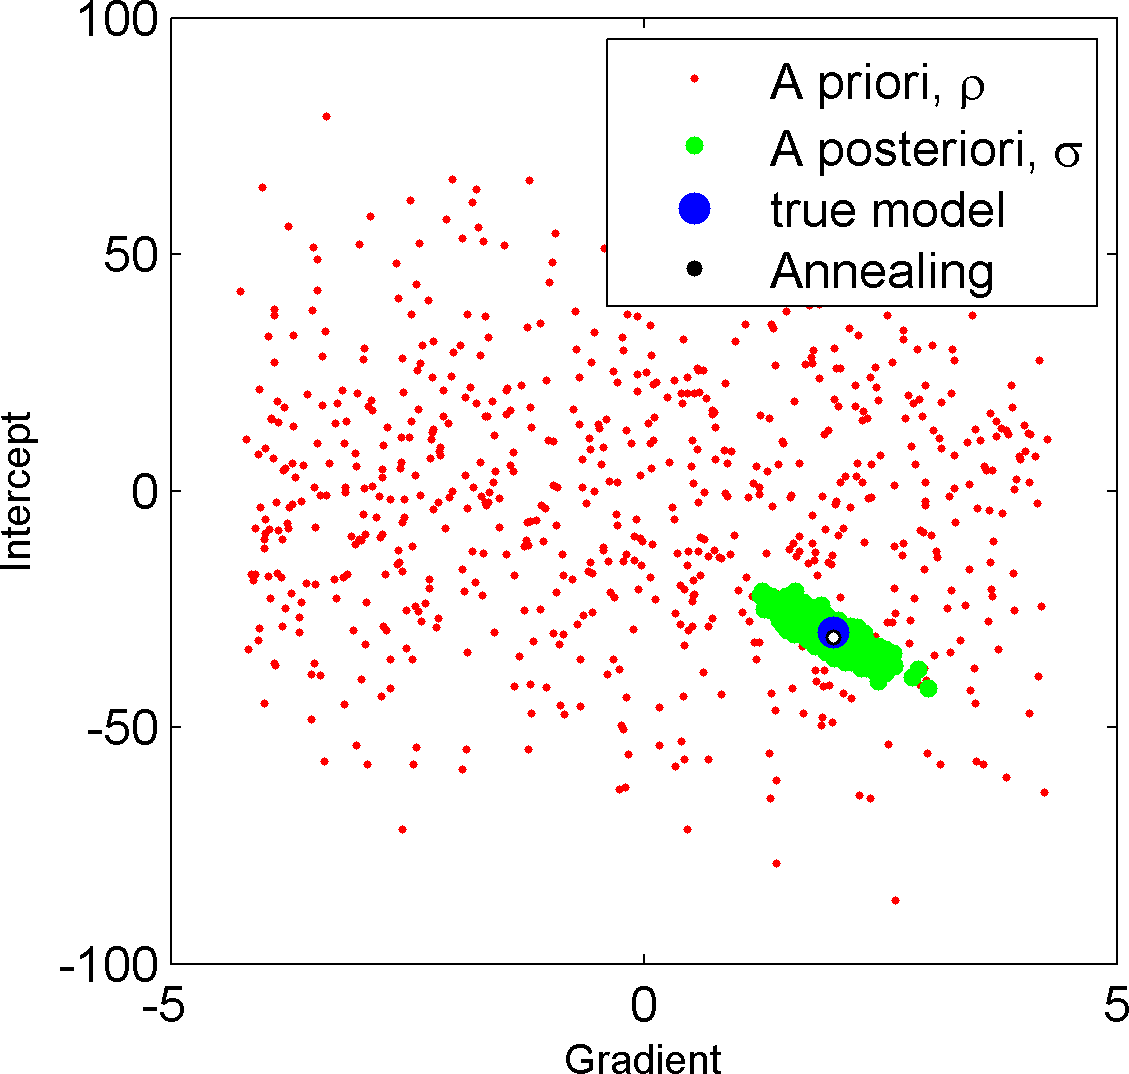
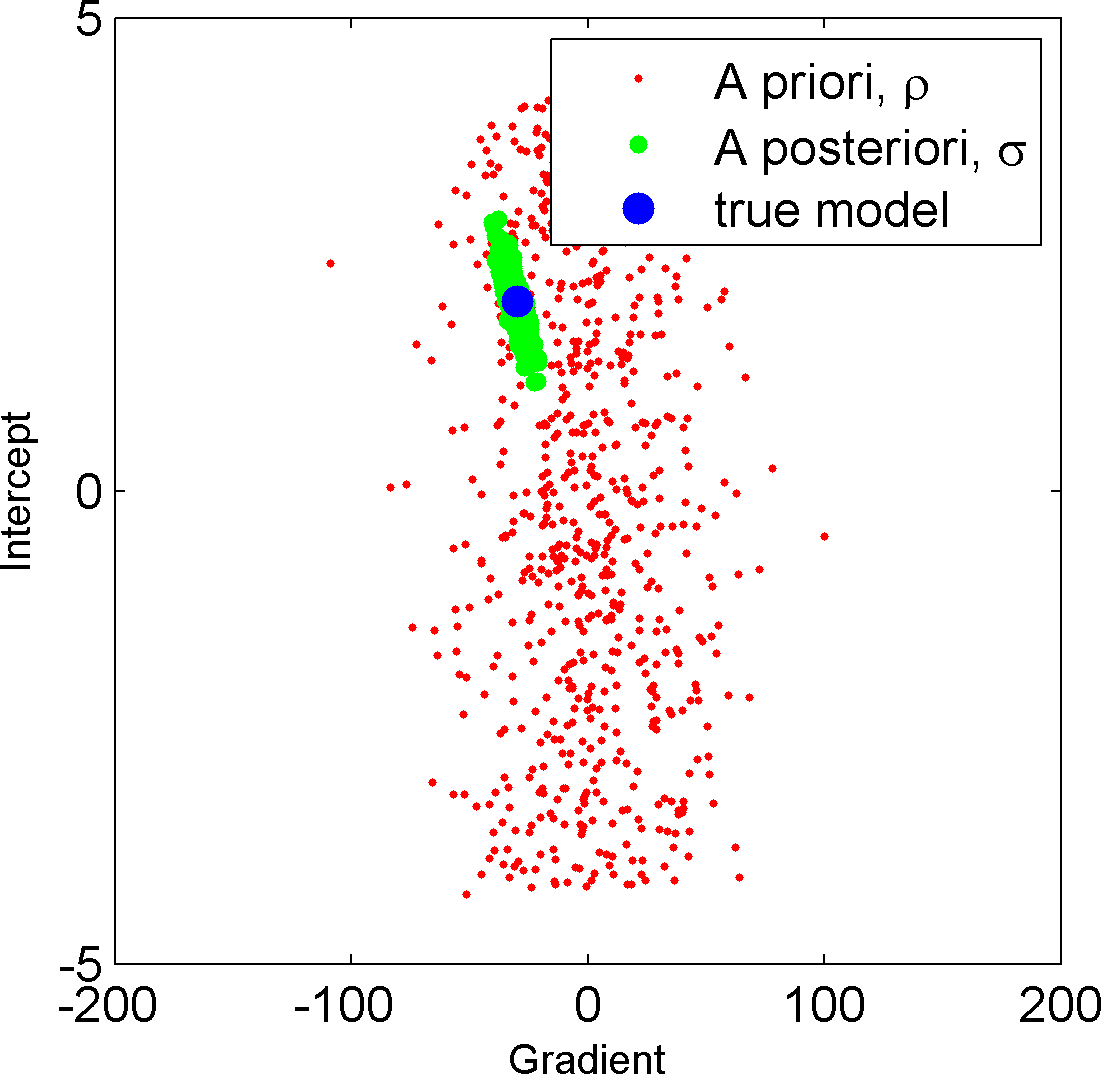
Cleaning up sippi_line_fit.m

diff --git a/trunk/examples/case_line_fit/sippi_line_fit.m b/trunk/examples/case_line_fit/sippi_line_fit.m
@@ -1,11 +1,20 @@
-% Fiting line using SIPPI
+% sippi_linefit: Fiting straight line using SIPPI
 clear all;close all
 rand('seed',1);randn('seed',1);
 
 %% Setting up the prior model
 
-% the gradient
+
+% the intercept
 im=1;
+prior{im}.type='gaussian';
+prior{im}.name='intercept';
+prior{im}.m0=0;
+prior{im}.std=30;
+prior{im}.m_true=-30;
+
+% 1st order, the gradient
+im=2;
 prior{im}.type='gaussian';
 prior{im}.name='gradient';
 prior{im}.m0=0;
@@ -13,25 +22,15 @@ prior{im}.std=4;
 prior{im}.norm=80;
 prior{im}.m_true=2;
 
-% the intercept
-im=im+1;
-prior{im}.type='gaussian';
-prior{im}.name='intercept';
-prior{im}.m0=0;
-prior{im}.std=30;
-prior{im}.m_true=-30;
-
-prior=sippi_prior_init(prior);
-
 %% Setup the forward model in the 'forward' structure
 nd=40;
 forward.x=linspace(1,20,nd)';
 forward.forward_function='sippi_forward_linefit';
 
 %% Set up the 'data' structure
-id=1;
-m_true{1}=prior{1}.m_true;
-m_true{2}=prior{2}.m_true;
+for ip=1:length(prior);
+    m_true{ip}=prior{ip}.m_true;
+end
 d=sippi_forward_linefit(m_true,forward);
 d_obs=d{1};
 % Add noise top data
@@ -45,11 +44,10 @@ options.mcmc.i_sample=50;
 options.mcmc.i_plot=2500;
 options.txt='case_line_fit';
 
-options_anneal=options;
 [options]=sippi_metropolis(data,prior,forward,options);
 sippi_plot_prior_sample(options.txt);
 sippi_plot_posterior(options.txt);
-return
+
 %% plot some stats
 % get sample from posterior
 m1_post=load(sprintf('%s%s%s_m1.asc',options.txt,filesep,options.txt))';
@@ -59,7 +57,7 @@ m2_post=m2_post(100:end);
 % get sample prior
 N=length(m1_post);
 for i=1:1:N
-    m=sippi_prior(prior);
+    [m,prior]=sippi_prior(prior);
     m1_prior(i)=m{1};
     m2_prior(i)=m{2};
 end  
@@ -76,36 +74,31 @@ ppp(8,8,12)
 axis(ax);print_mul('sippi_line_fit_data')
 
 for i=ceil(linspace(1,N,100))
-    plot(x1,m1_prior(i).*x1+m2_prior(i),'r-','linewidth',.8);
+    plot(x1,m2_prior(i).*x1+m1_prior(i),'r-','linewidth',.8);
 end
 errorbar(forward.x,data{1}.d_obs,ones(size(forward.x)).*data{1}.d_std,'k.','linewidth',2)
 axis(ax);print_mul('sippi_line_fit_data_prior')
 
 for i=ceil(linspace(1,N,100))
-    plot(x1,m1_post(i).*x1+m2_post(i),'g-','linewidth',.8);
+    plot(x1,m2_post(i).*x1+m1_post(i),'g-','linewidth',.8);
 end
 errorbar(forward.x,data{1}.d_obs,ones(size(forward.x)).*data{1}.d_std,'k.','linewidth',2)
 hold off
 print_mul('sippi_line_fit')
 
+return
 %%
 try;close(2);end;figure(2);clf;set_paper('portrait');
 plot(m1_prior,m2_prior,'r.','MarkerSize',6)
 hold on
 plot(m1_post,m2_post,'g.','MarkerSize',14)
 plot(prior{1}.m_true,prior{2}.m_true,'b.','MarkerSize',24);
-try
-    plot(options_anneal.mcmc.m_current{1},options_anneal.mcmc.m_current{2},'k.','MarkerSize',12)
-    plot(options_anneal.mcmc.m_current{1},options_anneal.mcmc.m_current{2},'w.','MarkerSize',8)
-end
 hold off
 xlabel('Gradient')
 ylabel('Intercept')
-legend('A priori, \rho','A posteriori, \sigma','true model','Annealing')
+legend('A priori, \rho','A posteriori, \sigma','true model')
 ppp(8,8,12)
 print_mul('sippi_line_fit_cross')
-
-
 
 %%
 for i=1:length(m1_post);
@@ -161,20 +154,4 @@ xlabel('log(Likelihood)')
 ylabel('Count (#)')
 set(gca,'xlim',[hx(1) hx(length(hx))])
 print_mul('sippi_line_fit_cross_metro_rejection')
-
-%% ANNEALING
-options_anneal.txt='case_line_fit_anneal';
-options_anneal.mcmc.nite=2000;
-options_anneal.mcmc.anneal.i_begin=1; % default, iteration number when annealing begins
-options_anneal.mcmc.anneal.i_end=options.mcmc.nite; %  iteration number when annealing begins
-options_anneal.mcmc.anneal.fac_begin=1; % default, noise is scaled by fac_begin at iteration i_begin
-options_anneal.mcmc.anneal.fac_end=.00001; % default, noise is scaled by fac_end at iteration i_end
- 
- 
-[options_anneal]=sippi_metropolis(data,prior,forward,options_anneal);
-
-for i=1:length(prior);
-disp(sprintf('%s ref=%g, optimal=%g ',prior{i}.name,prior{i}.m_true,options_anneal.mcmc.m_current{i}))
-end
-
 

diff --git a/trunk/examples/case_line_fit/sippi_line_fit_2nd_order.m b/trunk/examples/case_line_fit/sippi_line_fit_2nd_order.m
@@ -1,4 +1,4 @@
-% Fiting line using SIPPI, simulated annealing
+% sippi_linefit_2nd_order: Fiting line using SIPPI
 clear all;close all
 rand('seed',1);randn('seed',1);
 
@@ -30,7 +30,6 @@ prior{im}.std=1;
 prior{im}.norm=80;
 prior{im}.m_true=.9;
 
-
 %% Setup the forward model in the 'forward' structure
 nd=40;
 forward.x=linspace(1,20,nd)';
@@ -48,19 +47,11 @@ data{1}.d_obs=d_obs+randn(size(d_obs)).*data{1}.d_std;
 
 %% Perform extended Metropolis sampling 
 % set some MCMC options.
-options.mcmc.nite=2000;
-options.mcmc.i_plot=300;
-options.txt='case_line_fit';
+options.mcmc.nite=40000;
+options.mcmc.i_sample=50;
+options.mcmc.i_plot=2500;
+options.txt='case_line_fit_2nd_order';
 
-    
-%options.mcmc.anneal.i_begin=1; % default, iteration number when annealing begins
-options.mcmc.anneal.i_end=options.mcmc.nite; %  iteration number when annealing begins
-options.mcmc.anneal.fac_begin=2; % default, noise is scaled by fac_begin at iteration i_begin
-options.mcmc.anneal.fac_end=.01; % default, noise is scaled by fac_end at iteration i_end
- 
- 
 [options]=sippi_metropolis(data,prior,forward,options);
-
-for i=1:length(prior);
-    disp(sprintf('%s ref=%g, optimal=%g ',prior{i}.name,prior{i}.m_true,options.mcmc.m_current{i}))
-end
+sippi_plot_prior_sample(options.txt);
+sippi_plot_posterior(options.txt);

diff --git a/trunk/examples/case_line_fit/sippi_forward_linefit.m b/trunk/examples/case_line_fit/sippi_forward_linefit.m
@@ -5,9 +5,9 @@
 function [d,forward,prior,data]=sippi_forward_linefit(m,forward,prior,data);
 
 if length(m)==1;
-    d{1}=forward.x*m{1};
+    d{1}=m{1};
 elseif length(m)==2;
-    d{1}=forward.x*m{1}+m{2};
+    d{1}=forward.x*m{2}+m{1};
 else
-    d{1}=forward.x.^2*m{1}+forward.x*m{2}+m{3};
+    d{1}=forward.x.^2*m{3}+forward.x*m{2}+m{1};
 end
